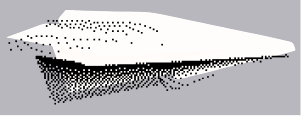
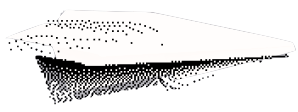
updated plane images

diff --git a/microsite/final/js/gsap.js b/microsite/final/js/gsap.js
@@ -726,7 +726,8 @@ ScrollTrigger.create({
   trigger: ".fact-2",
   start: "top bottom",
   once: true,
-  onEnter: () =>   planeTl.pause(),
+  onEnter: () => 
+    planeTl.play(),
 });
 
 gsap.set(".dropped-food", {
